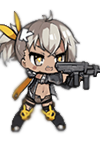
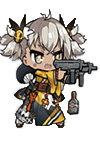
2.1.1

diff --git a/snqxap/MainWindow.xaml b/snqxap/MainWindow.xaml
@@ -1,7 +1,7 @@
 <Window x:Class="snqxap.MainWindow"
         xmlns="http://schemas.microsoft.com/winfx/2006/xaml/presentation"
         xmlns:x="http://schemas.microsoft.com/winfx/2006/xaml"
-        Title="「干死雪球」阵型计算器 - h@jyying.cn - v2.1.0 历史总是惊人的相似版" Name="Windows" Height="855" Width="1080"  AllowsTransparency="True"   WindowStyle="None" Background="Transparent" MouseMove="Window_MouseMove">
+        Title="「干死雪球」阵型计算器 - h@jyying.cn - v2.1.1 末日时在做什么?有没有空?可以来少女前线吗?版" Name="Windows" Height="855" Width="1080"  AllowsTransparency="True"   WindowStyle="None" Background="Transparent" MouseMove="Window_MouseMove">
     <Window.Resources>
         <ControlTemplate x:Key="ExpanderToggleButton" TargetType="{x:Type ToggleButton}">
             <Border Name="border" Background="#3c659d" Width="9" Height="119" HorizontalAlignment="Left" VerticalAlignment="Center">
@@ -747,10 +747,12 @@
             <Grid.Background>
                 <ImageBrush ImageSource="/assets/yushe3.png"/>
             </Grid.Background>
-            <Button  Click="zhedie_Click" Margin="695,10,10,80" Height="30" Width="30"/>
-            <Button  Click="fairyzhedie_Click" Margin="619,10,0,80" Height="30" Width="30" HorizontalAlignment="Left"/>
-            <Button  Click="close_Click" Margin="657,10,48,80" Height="30" Width="30" Content="×" Foreground="Red"/>
-            <Slider  Minimum="0" TickFrequency="1" Maximum="30" x:Name="slider" IsSnapToTickEnabled="True" HorizontalAlignment="Left" VerticalAlignment="Center" Width="281" Height="21" Margin="10,94,0,5" Opacity="0.8" RenderTransformOrigin="0.5,0.5">
+            <Button  Click="zhedie_Click" Margin="679,44,26,46" Height="30" Width="30"/>
+            <Button  Click="fairyzhedie_Click" Margin="642,44,0,46" Height="30" Width="30" HorizontalAlignment="Left"/>
+            <Button  Click="close_Click" Margin="695,10,10,80" Height="30" Width="30" Content="×" Foreground="Red"/>
+                <Button  Click="minimize_Click" Margin="625,10,80,80" Height="30" Width="30" Content="-" Foreground="Red"/>
+                <Button  Click="maxmize_Click" Margin="660,10,45,80" Height="30" Width="30" Content="□" Foreground="Red"/>
+                <Slider  Minimum="0" TickFrequency="1" Maximum="30" x:Name="slider" IsSnapToTickEnabled="True" HorizontalAlignment="Left" VerticalAlignment="Center" Width="281" Height="21" Margin="10,94,0,5" Opacity="0.8" RenderTransformOrigin="0.5,0.5">
             
                 </Slider>
                 <TextBox  TextChanged="textBlock_TextChanged"  x:Name="textBlock" HorizontalAlignment="Left" TextWrapping="Wrap" Text="{Binding ElementName=slider, Path=Value}" FontSize="15" VerticalAlignment="Top" Margin="296,93,0,0" Opacity="0.5" BorderThickness="0" IsEnabled="False" Width="24"/>

diff --git a/snqxap/UpdateData.xaml b/snqxap/UpdateData.xaml
@@ -20,6 +20,17 @@
 > - 感谢以上。&#13;
 > - 如果发现了什么bug或者有什么建议，欢迎反馈。&#13;
 &#13;
+###v.2.1.1 (末日时在做什么?有没有空?可以来少女前线吗?版) &#13;
+&#13;
+ > - 增加可以拉伸的边框，使对缩放友好一些。&#13;
+ > - 又加了俩按钮最小化和最大化，暂时不知道放哪合适先扔那。&#13;
+ > - 可能修正了移动窗口和slider的冲突。&#13;
+ > - 修复妖精星级更换时重置buff加成。&#13;
+ > - 增加空降技能效果。&#13;
+ > - 修改防御妖精技能实现，在计算甲之后减伤。&#13;
+ > - 增加新枪数据。&#13;
+ > - 随更新修改部分Q版图。&#13;
+&#13;
 ###v2.1.0 (历史总是惊人的相似版) &#13;
 &#13;
  > - 更新仓促，工作量大，UI太菜，本次更新可能有一万个bug，欢迎反馈。&#13;

diff --git a/snqxap/MainWindow.xaml.cs b/snqxap/MainWindow.xaml.cs
@@ -34,7 +34,7 @@ namespace snqxap
         /// <summary>
         /// 枪娘总数
         /// </summary>
-        public const int GUN_NUMBER = 171;
+        public const int GUN_NUMBER = 174;
         /// <summary>
         /// 装备总数
         /// </summary>
@@ -672,6 +672,22 @@ namespace snqxap
                 gun[170].equiptype1 = "5"; gun[170].equiptype2 = "1,2,3,13"; gun[170].equiptype3 = "9,15"; gun[170].type = 100401;
                 gun[170].grid_center = 5; gun[170].number = 1; gun[170].effect0 = 3; gun[170].rateup = 0.12; gun[170].to = 4;
             }
+
+            gun[171].name = "竞争者"; gun[171].what = 4; gun[171].crit = 0.4; gun[171].belt = 0;
+            gun[171].eatratio = 150; gun[171].ratiododge = 90; gun[171].ratiohit = 140; gun[171].ratiohp = 100; gun[171].ratiopow = 145; gun[171].ratiorate = 75;
+            gun[171].equiptype1 = "4,13"; gun[171].equiptype2 = "5,6"; gun[171].equiptype3 = "9,10,12"; gun[171].type = 106701;
+            gun[171].grid_center = 5; gun[171].number = 8; gun[171].effect0 = 1; gun[171].effect1 = 2; gun[171].effect2 = 3; gun[171].effect3 = 4; gun[171].effect4 = 6; gun[171].effect5 = 7; gun[171].effect6 = 8; gun[171].effect7 = 9; gun[171].damageup = 0.15; gun[171].critup = 0.1; gun[171].to = 1;
+
+            gun[172].name = "T-5000"; gun[172].what = 5; gun[172].crit = 0.4; gun[172].belt = 0;
+            gun[172].eatratio = 117; gun[172].ratiododge = 85; gun[172].ratiohit = 130; gun[172].ratiohp = 102; gun[172].ratiopow = 118; gun[172].ratiorate = 105;
+            gun[172].equiptype1 = "5"; gun[172].equiptype2 = "1,2,3,13"; gun[172].equiptype3 = "9,15"; gun[172].type = 106601;
+            gun[172].grid_center = 5; gun[172].number = 2; gun[172].effect0 = 2; gun[172].effect1 = 3; gun[172].rateup = 0.15; gun[172].to = 4;
+
+            gun[173].name = "阿梅利"; gun[173].what = 6; gun[173].crit = 0.05; gun[173].belt = 8;
+            gun[173].eatratio = 145; gun[173].ratiododge = 140; gun[173].ratiohit = 130; gun[173].ratiohp = 85; gun[173].ratiopow = 90; gun[173].ratiorate = 130;
+            gun[173].equiptype1 = "5"; gun[173].equiptype2 = "1,2,3"; gun[173].equiptype3 = "9,14"; gun[173].type = 105106;
+            gun[173].grid_center = 4; gun[173].number = 3; gun[173].effect0 = 3; gun[173].effect1 = 6; gun[173].effect2 = 9; gun[173].damageup = 0.1; gun[173].armorup = 0.15; gun[173].to = 7;
+
             for (int i = 0; i < GUN_NUMBER + 1; i++)//加颜色
             {
                 Label l = new Label();
@@ -978,7 +994,7 @@ namespace snqxap
                 gun[i].image = "/assets/" + gun[i].name + ".png";
                 gun[i].doublecard = false;
             }
-            gun[170].image = "/assets/MP5.png";
+      //      gun[170].image = "/assets/MP5.png";
             gun[GUN_NUMBER].image = "";
             for (int i = 0; i < 9; i++)
             {
@@ -15748,6 +15764,109 @@ namespace snqxap
                         }
                         break;
                     }
+                case 105106:
+                    {
+                        double cdtime = 18;
+                        double attime = 0;
+                        double updem1 = 0;
+                        double updem2 = 0;
+
+                        switch (skillindex) { case 0: { attime = 6.00; break; } case 1: { attime = 6.20; break; } case 2: { attime = 6.40; break; } case 3: { attime = 6.70; break; } case 4: { attime = 6.90; break; } case 5: { attime = 7.10; break; } case 6: { attime = 7.30; break; } case 7: { attime = 7.60; break; } case 8: { attime = 7.80; break; } case 9: { attime = 8.00; break; } }
+                        if (innight)
+                            switch (skillindex) { case 0: { updem1 = 0.28; break; } case 1: { updem1 = 0.3; break; } case 2: { updem1 = 0.33; break; } case 3: { updem1 = 0.35; break; } case 4: { updem1 = 0.38; break; } case 5: { updem1 = 0.4; break; } case 6: { updem1 = 0.43; break; } case 7: { updem1 = 0.45; break; } case 8: { updem1 = 0.48; break; } case 9: { updem1 = 0.5; break; } }
+                        else
+                            switch (skillindex) { case 0: { updem1 = 0.06; break; } case 1: { updem1 = 0.07; break; } case 2: { updem1 = 0.07; break; } case 3: { updem1 = 0.08; break; } case 4: { updem1 = 0.08; break; } case 5: { updem1 = 0.09; break; } case 6: { updem1 = 0.09; break; } case 7: { updem1 = 0.1; break; } case 8: { updem1 = 0.1; break; } case 9: { updem1 = 0.11; break; } }
+
+                        switch (skillindex) { case 0: { updem2 = 1; break; } case 1: { updem2 = 2; break; } case 2: { updem2 = 2; break; } case 3: { updem2 = 2; break; } case 4: { updem2 = 2; break; } case 5: { updem2 = 3; break; } case 6: { updem2 = 3; break; } case 7: { updem2 = 3; break; } case 8: { updem2 = 3; break; } case 9: { updem2 = 4; break; } }
+
+
+                        if (ischecked)
+                        {
+                            skillupdamage[combo] *= 1 + updem1;
+                            skillupbelt[combo] += updem2;
+                            renewindex(combo);
+                        }
+
+                        gun[index].cd = cdtime;
+                        renewattime(combo, attime.ToString());
+                        gun[index].startcd = ("8");
+                        if (innight)
+                        {
+                            string read = "(夜)提升自身" + updem1 * 100 + "%伤害,弹链+" + updem2 + "(不算弹链时间)";
+                            renewread(combo, read);
+                        }
+                        else
+                        {
+                            string read = "(昼)提升自身" + updem1 * 100 + "%伤害,弹链+" + updem2 + "(不算弹链时间)";
+                            renewread(combo, read);
+                        }
+                        break;
+                    }
+                case 106601:
+                    {
+                        double cdtime = 0;
+                        double attime = 0;
+                        double updem1 = 0;
+                        double updem2 = 0;
+
+                        switch (skillindex) { case 0: { cdtime = 10; break; } case 1: { cdtime = 9.8; break; } case 2: { cdtime = 9.6; break; } case 3: { cdtime = 9.3; break; } case 4: { cdtime = 9.1; break; } case 5: { cdtime = 8.9; break; } case 6: { cdtime = 8.7; break; } case 7: { cdtime = 8.4; break; } case 8: { cdtime = 8.2; break; } case 9: { cdtime = 8; break; } }
+                        switch (skillindex) { case 0: { attime = 3.00; break; } case 1: { attime = 3.30; break; } case 2: { attime = 3.70; break; } case 3: { attime = 4; break; } case 4: { attime = 4.3; break; } case 5: { attime = 4.7; break; } case 6: { attime = 5; break; } case 7: { attime = 5.3; break; } case 8: { attime = 5.7; break; } case 9: { attime = 6; break; } }
+                        switch (skillindex) { case 0: { updem1 = 0.3; break; } case 1: { updem1 = 0.32; break; } case 2: { updem1 = 0.34; break; } case 3: { updem1 = 0.37; break; } case 4: { updem1 = 0.39; break; } case 5: { updem1 = 0.41; break; } case 6: { updem1 = 0.43; break; } case 7: { updem1 = 0.46; break; } case 8: { updem1 = 0.48; break; } case 9: { updem1 = 0.5; break; } }
+
+                        if (ischecked)
+                        {
+
+                            skilluphit[combo] *= 1 + updem1;
+                            skillupshotspeed[combo] *= 1 + updem1;
+                            renewindex(combo);
+
+                        }
+
+                        gun[index].cd = cdtime;
+                        renewattime(combo, attime.ToString());
+                        gun[index].startcd = ("6");
+                        string read = "提升自身" + updem1 * 100 + "%命中," + updem1 * 100 + "%射速";
+                        renewread(combo, read);
+                        break;
+                    }
+
+                case 106701:
+                    {
+                        double cdtime = 0;
+                        double attime = 0;
+                        double updem1 = 0;
+                        double updem2 = 0;
+
+                        switch (skillindex) { case 0: { cdtime = 15; break; } case 1: { cdtime = 14.7; break; } case 2: { cdtime = 14.3; break; } case 3: { cdtime = 14; break; } case 4: { cdtime = 13.7; break; } case 5: { cdtime = 13.3; break; } case 6: { cdtime = 13; break; } case 7: { cdtime = 12.7; break; } case 8: { cdtime = 12.3; break; } case 9: { cdtime = 12; break; } }
+                        switch (skillindex) { case 0: { attime = 3.00; break; } case 1: { attime = 3.20; break; } case 2: { attime = 3.40; break; } case 3: { attime = 3.70; break; } case 4: { attime = 3.90; break; } case 5: { attime = 4.10; break; } case 6: { attime = 4.30; break; } case 7: { attime = 4.60; break; } case 8: { attime = 4.80; break; } case 9: { attime = 5; break; } }
+                        switch (skillindex) { case 0: { updem1 = 0.25; break; } case 1: { updem1 = 0.27; break; } case 2: { updem1 = 0.28; break; } case 3: { updem1 = 0.3; break; } case 4: { updem1 = 0.32; break; } case 5: { updem1 = 0.33; break; } case 6: { updem1 = 0.35; break; } case 7: { updem1 = 0.37; break; } case 8: { updem1 = 0.38; break; } case 9: { updem1 = 0.4; break; } }
+                        switch (skillindex) { case 0: { updem2 = 1.5; break; } case 1: { updem2 = 1.7; break; } case 2: { updem2 = 1.8; break; } case 3: { updem2 = 2; break; } case 4: { updem2 = 2.2; break; } case 5: { updem2 = 2.3; break; } case 6: { updem2 = 2.5; break; } case 7: { updem2 = 2.7; break; } case 8: { updem2 = 2.8; break; } case 9: { updem2 = 3; break; } }
+
+                        if (ischecked)
+                        {
+                            for (int i = 0; i < 9; i++)
+                            {
+                                skilldamageagain[i] = updem1 + 1;
+                                renewindex(i);
+                            }
+                            skillsolidmultiple[combo] = updem2;
+                            renewindex(combo);
+                        }
+                        //     先偷懒成群体突击眼
+                        gun[index].cd = cdtime;
+                        renewattime(combo, attime.ToString());
+                        gun[index].startcd = ("6");
+                        string read = "";
+                        if (combo%3==0)
+                        read = "1s瞄准最近," + (updem2 ) + "倍,BOSS优先,集火";
+                        else if (combo % 3 == 1)
+                            read = "1s瞄准血量最高," + (updem2) + "倍,BOSS优先,集火";
+                        else if (combo % 3 == 2)
+                            read = "1s瞄准最远," + (updem2) + "倍,BOSS优先,集火";
+                        renewread(combo, read);
+
+                        break;
+                    }
 
                 default:
                     break;
@@ -26260,6 +26379,23 @@ namespace snqxap
                     #endregion
             }
             return IntPtr.Zero;
+        }
+
+        private void minimize_Click(object sender, RoutedEventArgs e)
+        {
+            this.WindowState = WindowState.Minimized;
+        }
+
+        private void maxmize_Click(object sender, RoutedEventArgs e)
+        {
+            if (this.WindowState == WindowState.Maximized)
+            {
+                this.WindowState = WindowState.Normal;
+            }
+            else
+            {
+                this.WindowState = WindowState.Maximized;
+            }
         }
     }
 }

diff --git a/snqxap/Properties/AssemblyInfo.cs b/snqxap/Properties/AssemblyInfo.cs
@@ -51,5 +51,5 @@ using System.Windows;
 // 可以指定所有这些值，也可以使用“生成号”和“修订号”的默认值，
 // 方法是按如下所示使用“*”: 
 // [assembly: AssemblyVersion("1.0.*")]
-[assembly: AssemblyVersion("2.1.0.0")]
-[assembly: AssemblyFileVersion("2.1.0.0")]
+[assembly: AssemblyVersion("2.1.1.0")]
+[assembly: AssemblyFileVersion("2.1.1.0")]

diff --git a/README.md b/README.md
@@ -7,6 +7,17 @@ Logs
 
 -------------
 
+###v.2.1.1 (末日时在做什么?有没有空?可以来少女前线吗?版) 2017.08.07
+
+ > - 增加可以拉伸的边框，使对缩放友好一些。
+ > - 又加了俩按钮最小化和最大化，暂时不知道放哪合适先扔那。
+ > - 可能修正了移动窗口和slider的冲突。
+ > - 修复妖精星级更换时重置buff加成。
+ > - 增加空降技能效果。
+ > - 修改防御妖精技能实现，在计算甲之后减伤。
+ > - 增加新枪数据。
+ > - 随更新修改部分Q版图。
+
 ###v2.1.0 (历史总是惊人的相似版) 2017.06.29
 
  > - 更新仓促，工作量大，UI太菜，本次更新可能有一万个bug，欢迎反馈。
